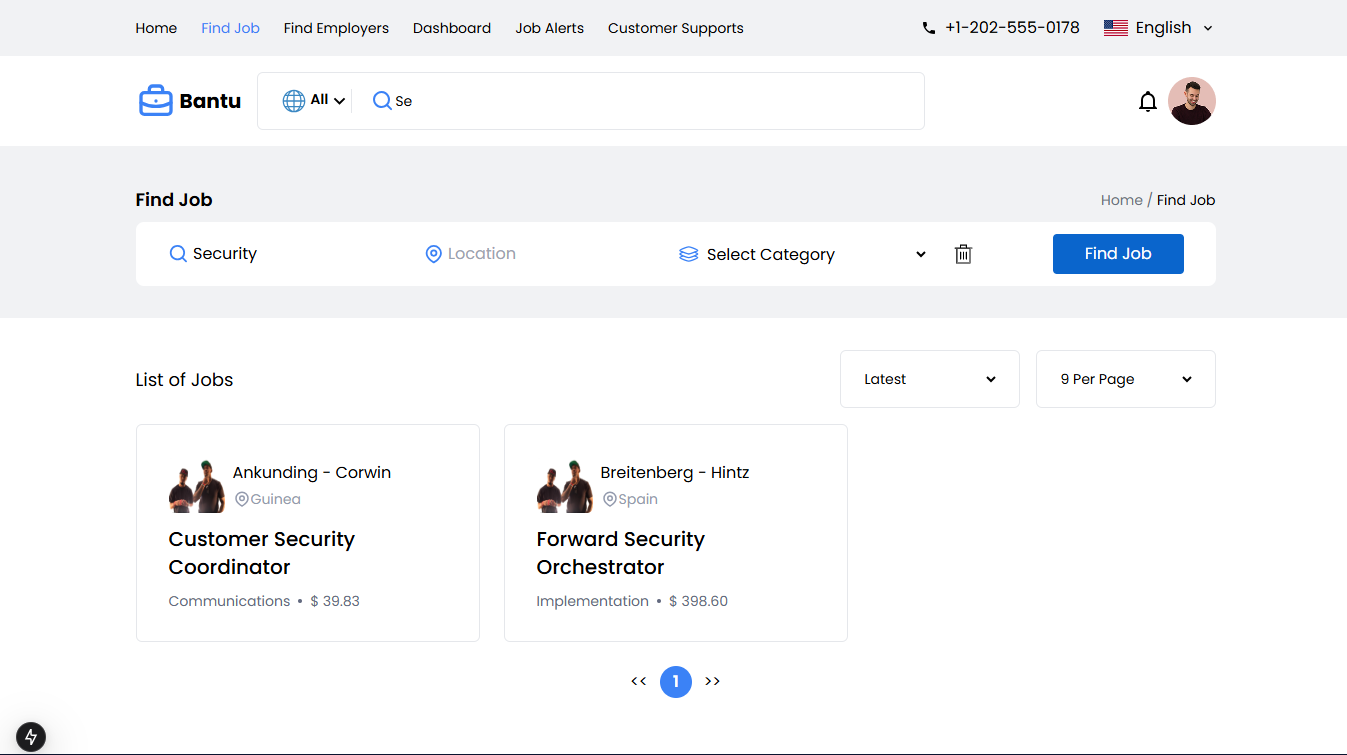
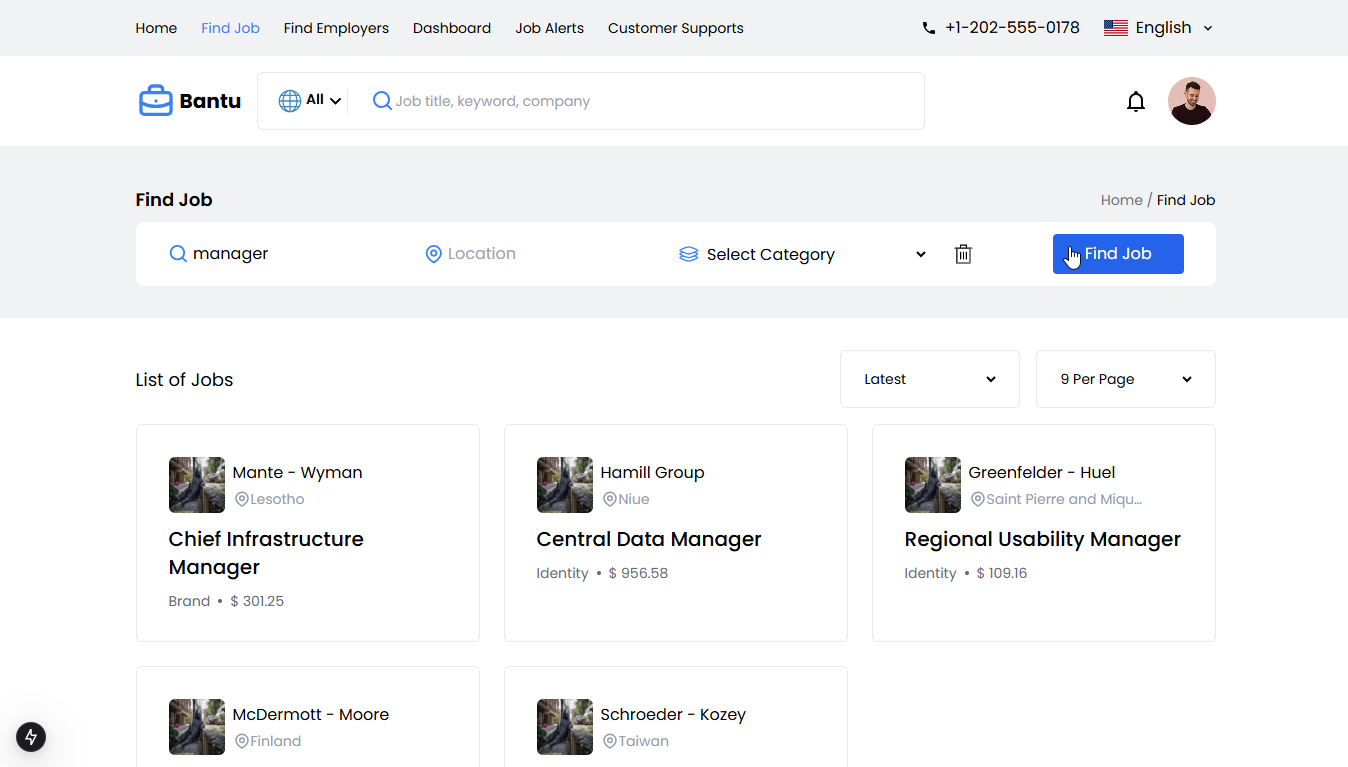
update readme

diff --git a/src/components/SearchSection.jsx b/src/components/SearchSection.jsx
@@ -151,9 +151,9 @@ const SearchSection = () => {
           </div>
         </div>
       </div>
-      <div className="hidden md:flex md:items-center md:gap-2">
-        <Icon icon={"mdi:bell-outline"} className="size-6" />
-        <img src="/user.png" alt="user" className="md:size-8 lg:size-12" />
+      <div className="hidden md:flex md:items-center md:gap-5">
+        <Icon icon={"mdi:bell-outline"} className="size-6 cursor-pointer" />
+        <img src="/user.png" alt="user" className="md:size-8 lg:size-12 cursor-pointer" />
       </div>
     </div>
   );

diff --git a/README.md b/README.md
@@ -83,10 +83,30 @@ Example response:
 ]
 ```
 
-## Search Feature & FIlter
+## Search Feature & Filter
 
-ongoing
+### Search Feature
 
-<img src="./public/" >
+1. Global Search
+   
+<img src="./public/global_search.png">
+
+2. Search by keyword job title
+
+<img src="./public/search1.png">
+
+3. Specific search by keyword job title and category
+
+<img src="./public/search2.png">
+
+### Filter
+
+1. Filter sort
+
+<img src="./public/filter1.png">
+
+2. Filter showing items per page
+
+<img src="./public/filter2.png">
 
 <p align="right">(<a href="#top">back to top</a>)</p>
